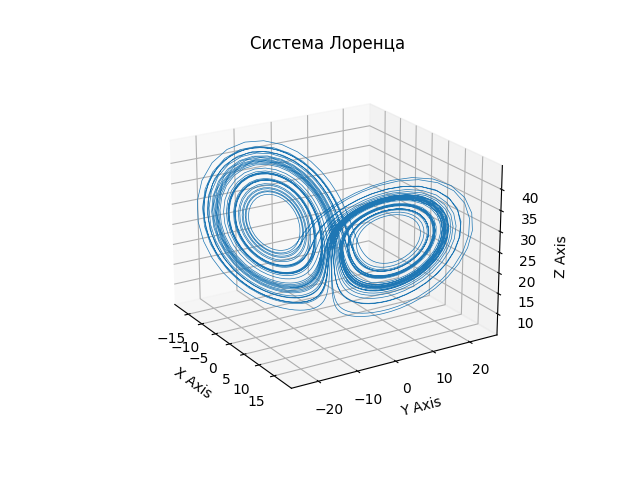
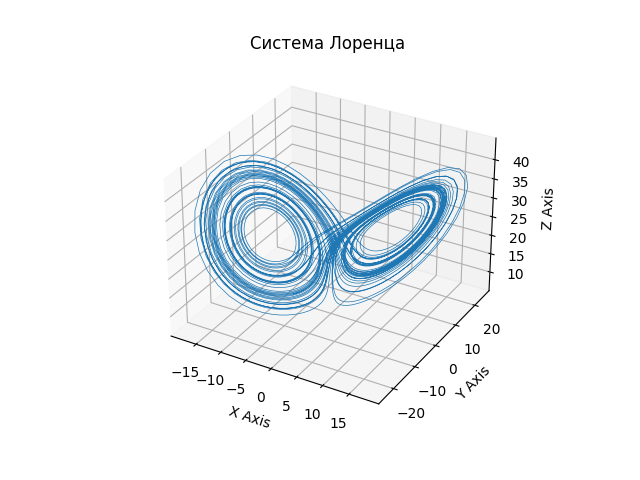
readme

Changed region(s): [[0.25, 0.2188, 0.9062, 0.875], [0.4688, 0.8438, 0.5312, 0.875], [0.4062, 0.875, 0.4375, 0.9062]]

diff --git a/Лаба 6/lab6.py b/Лаба 6/lab6.py
@@ -111,7 +111,7 @@ print("Неявная схема Эйлера")
 plt.figure(2, figsize=(10, 5))
 plt.subplot(121)
 plt.autoscale(tight=True)
-plt.ylabel(r'$\delta$')
+plt.ylabel(r'$y$')
 plt.xlabel(r'$\tau$')
 plt.title("Неявная схема Эйлера для уравнения")
 Tsls = np.linspace(0, 2, pow(2, 4))
@@ -162,7 +162,7 @@ print("Метод трапеций")
 plt.figure(3, figsize=(10, 5))
 plt.subplot(121)
 plt.autoscale(tight=True)
-plt.ylabel(r'$\delta$')
+plt.ylabel(r'$y$')
 plt.xlabel(r'$\tau$')
 plt.title("Метод трапеций")
 Tsls = np.linspace(0, 2, pow(2, 5))
@@ -213,7 +213,7 @@ print("Метод РК2")
 plt.figure(4, figsize=(10, 5))
 plt.subplot(121)
 plt.autoscale(tight=True)
-plt.ylabel(r'$\delta$')
+plt.ylabel(r'$y$')
 plt.xlabel(r'$\tau$')
 plt.title("Метод РК2")
 Tsls = np.linspace(0, 2, pow(2, 5))
@@ -268,7 +268,7 @@ print("Метод РК4")
 plt.figure(5, figsize=(10, 5))
 plt.subplot(121)
 plt.autoscale(tight=True)
-plt.ylabel(r'$\delta$')
+plt.ylabel(r'$y$')
 plt.xlabel(r'$\tau$')
 plt.title("Метод РК4")
 Tsls = np.linspace(0, 2, pow(2, 5))
@@ -394,7 +394,7 @@ ax.plot(x, y, z, lw=0.5)
 ax.set_xlabel("X Axis")
 ax.set_ylabel("Y Axis")
 ax.set_zlabel("Z Axis")
-ax.set_title("Система Лоренца")
+ax.set_title("Система Лоренца, r=28")
 
 #============= Бифуркации =====================
 
@@ -409,11 +409,12 @@ xj = np.ones((3,1))
 
 plt.figure(figsize=(5, 5))
 plt.autoscale(tight=True)
-plt.ylabel(r'$ex$')
+plt.ylabel(r'$intersections$')
 plt.xlabel(r'$r$')
 plt.title("Бифуркационная диаграмма")
 plt.grid()
-rlist = np.linspace(1, 30, 30)
+rlist = np.linspace(1, 30, 90)
+z0 = 12
 for r in rlist:
   bif = []
   xj[0] = 3.051522
@@ -428,8 +429,8 @@ for r in rlist:
     k3 = Lorenz(s, r, b, xj + tau/2*k2)
     k4 = Lorenz(s, r, b, xj + tau*k3)
     xj = xj + tau*(k1+2*k2+2*k3+k4)/6
-    if (z < 13 and xj[2] > 13) or (z > 13 and xj[2] < 13):
-      bif.append(float(x + np.abs((z-13)/(z-xj[2]))*(xj[0] - x)))
+    if (z < z0 and xj[2] > z0) or (z > z0 and xj[2] < z0):
+      bif.append(float(x + np.abs((z-z0)/(z-xj[2]))*(xj[0] - x)))
     x = float(xj[0])
     y = float(xj[1])
     z = float(xj[2])

diff --git a/README.md b/README.md
@@ -1,0 +1,13 @@
+# Описание работ 
+
+Lab1 - Нахождение 1 и 2 производной сеточной функции с 1 и 2 порядком
+
+Lab2 - Нахождение корней уравнения методом деления отрезка пополам, методом Ньютона для уравнения и системы 2 уравнений
+
+Lab3 - Решение СЛАУ методом Гаусса, трехдиагональной прогонки, методами Якоби и Зейделя, наискорейшего спуска и минимальной невязки
+
+Lab4 - Интерполяция полиномами Лагранжа, Ньютона, а так же кубическим сплайном
+
+Lab5 - Собственные интегралы методами прямоугольников, трапеций, Симпсона. Методы прямоугольников и трапеций с поправкой Рунге, несобственный интеграл методом Монте-Карло
+
+Lab6 - Решение дифференциального уравнения $y' = \alpha y(1-y)$ явной и неявной схемами Эйлера, Методом трапеций, методами Рунге-Кутта 2 и 4 порядка. Решение систем Лотки-Вольтерра и Лоренца методом Р-К, построение бифуркационных диаграмм и нахождение показателя Ляпунова для системы Лоренца. 
